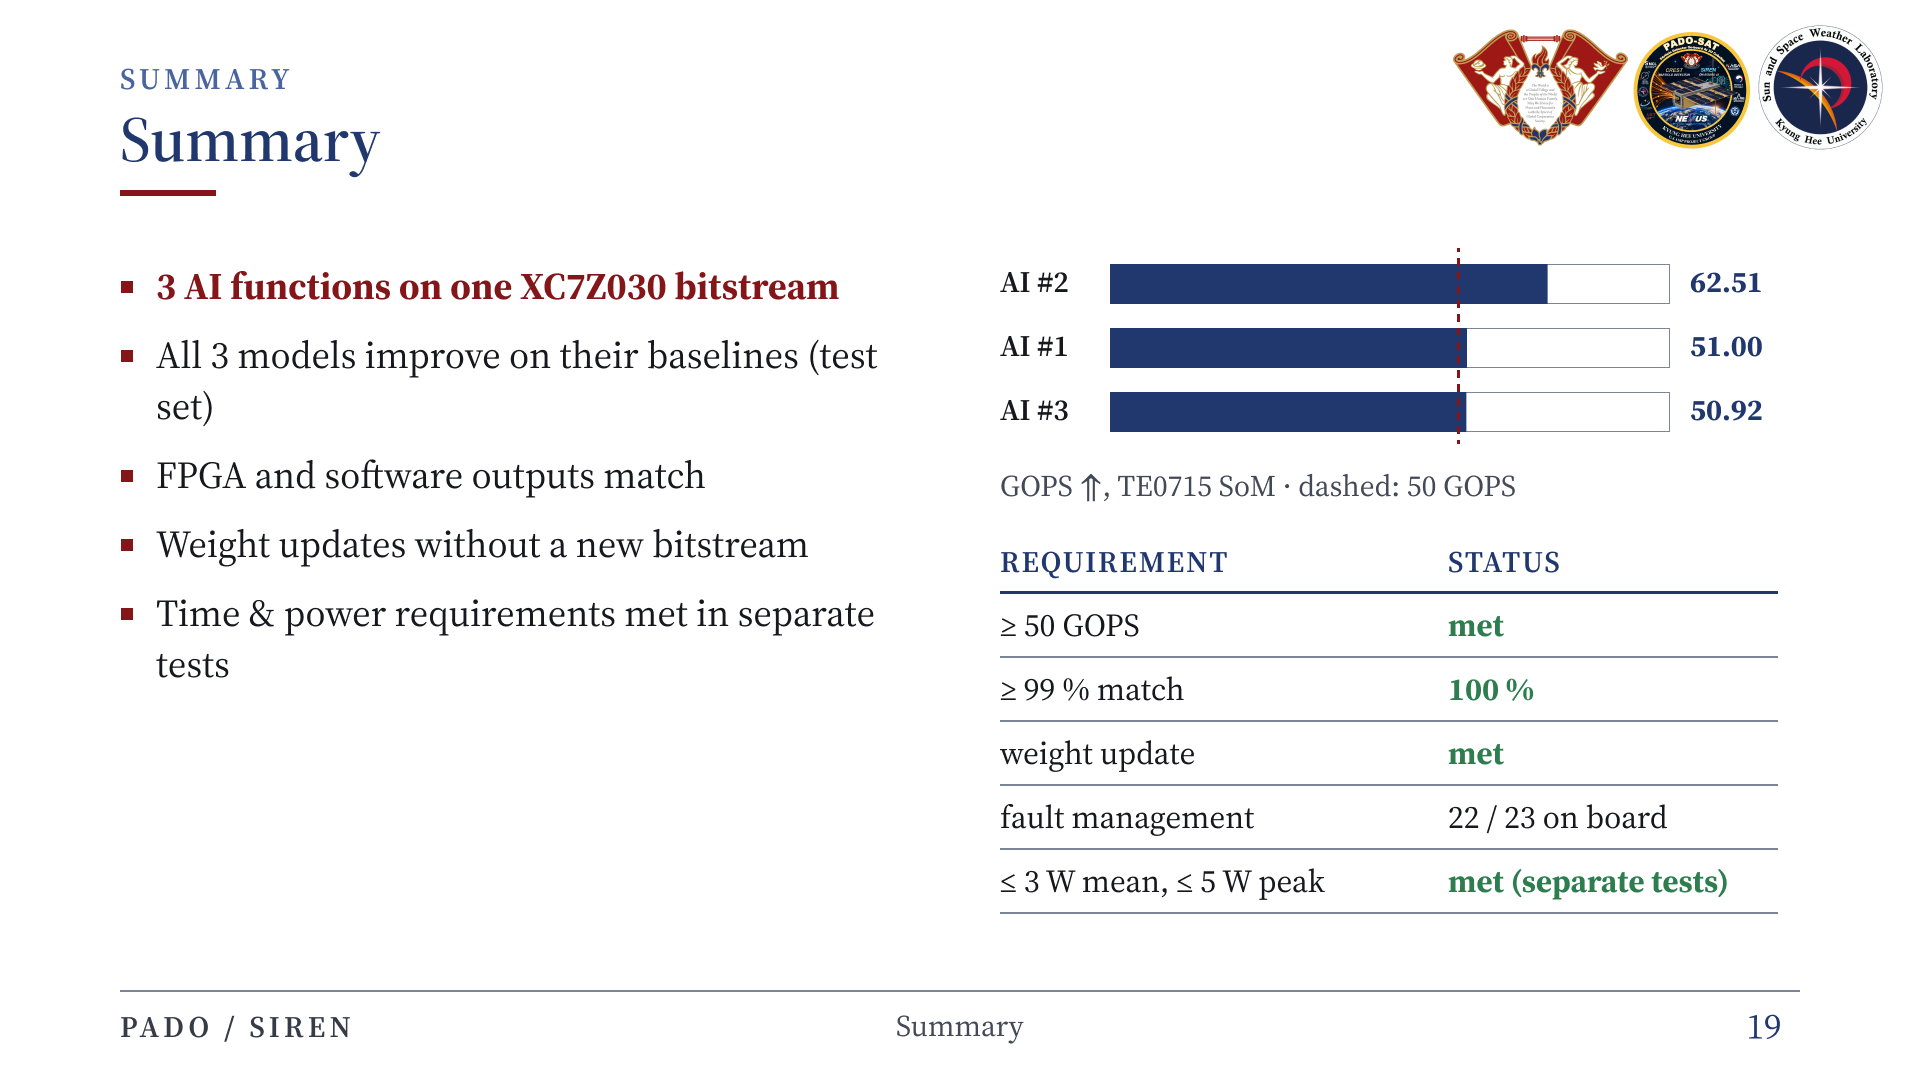
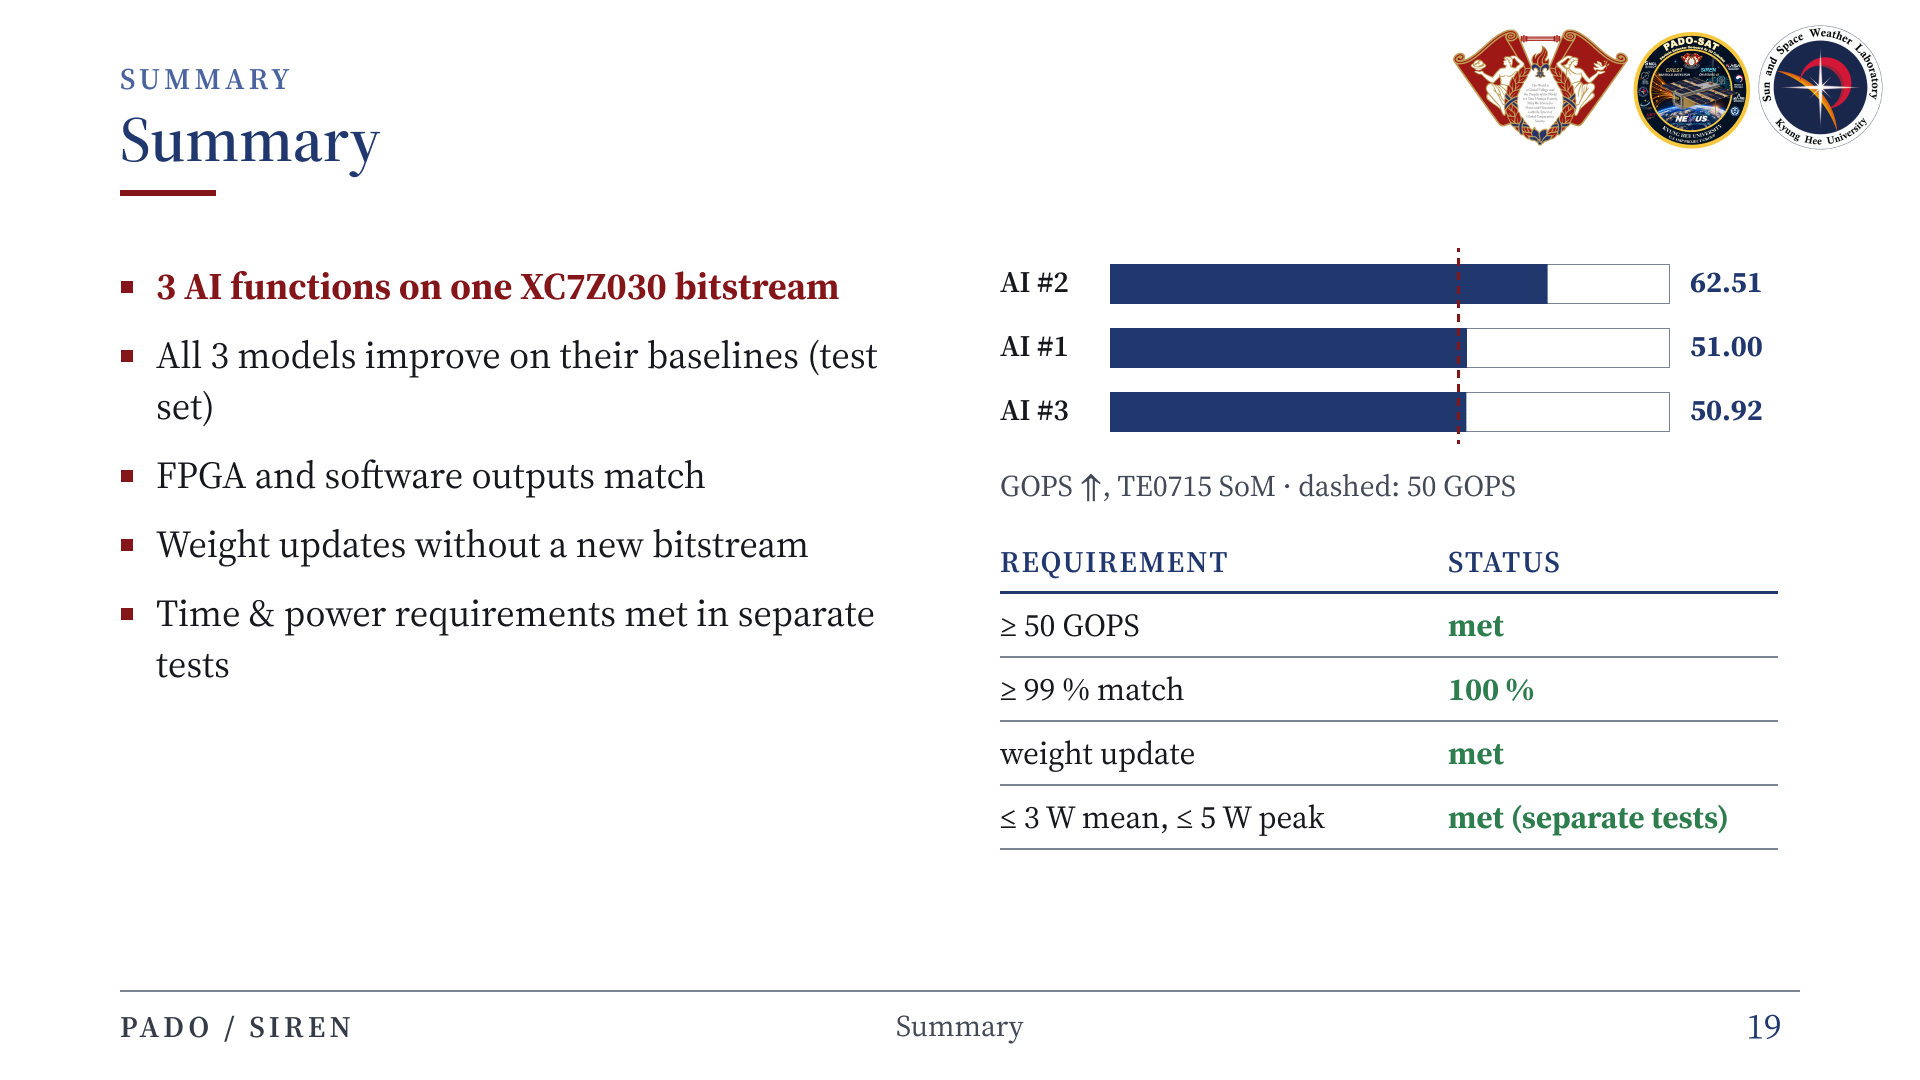
Focus summary on presented results and refresh current slides

Changed region(s): [[0.75, 0.7333, 0.9062, 0.8556], [0.5312, 0.7944, 0.6875, 0.8556], [0.5312, 0.7333, 0.6875, 0.7639]]

diff --git a/README.md b/README.md
@@ -64,11 +64,11 @@ PADO-SAT의 온보드 AI 탑재체 SIREN 발표 자료입니다.
 
 ### 15. Three AIs on one FPGA SoC
 
-![Slide 15: Three AIs on one FPGA SoC](assets/slides/15.png?v=fb0bc823d037)
+![Slide 15: Three AIs on one FPGA SoC](assets/slides/15.png?v=09f90a6d395f)
 
 ### 16. Download and weekly NN tests
 
-![Slide 16: Download and weekly NN tests](assets/slides/16.png?v=dc69ceed675a)
+![Slide 16: Download and weekly NN tests](assets/slides/16.png?v=6c7acb1bb1d1)
 
 ### 17. Future Work and Summary
 
@@ -80,7 +80,7 @@ PADO-SAT의 온보드 AI 탑재체 SIREN 발표 자료입니다.
 
 ### 19. Summary
 
-![Slide 19: Summary](assets/slides/19.png?v=d6e11949c771)
+![Slide 19: Summary](assets/slides/19.png?v=233e1e5e69c4)
 
 ### 20. Thank you
 
